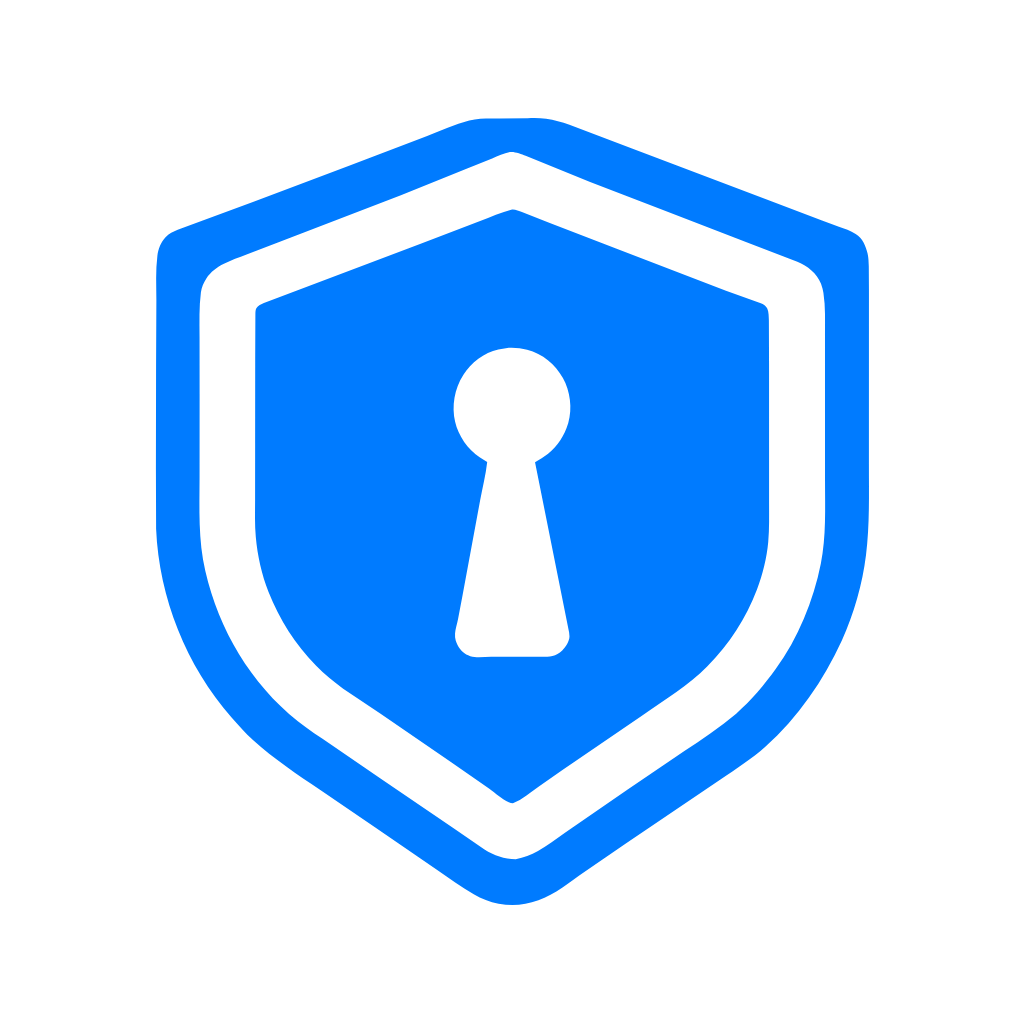
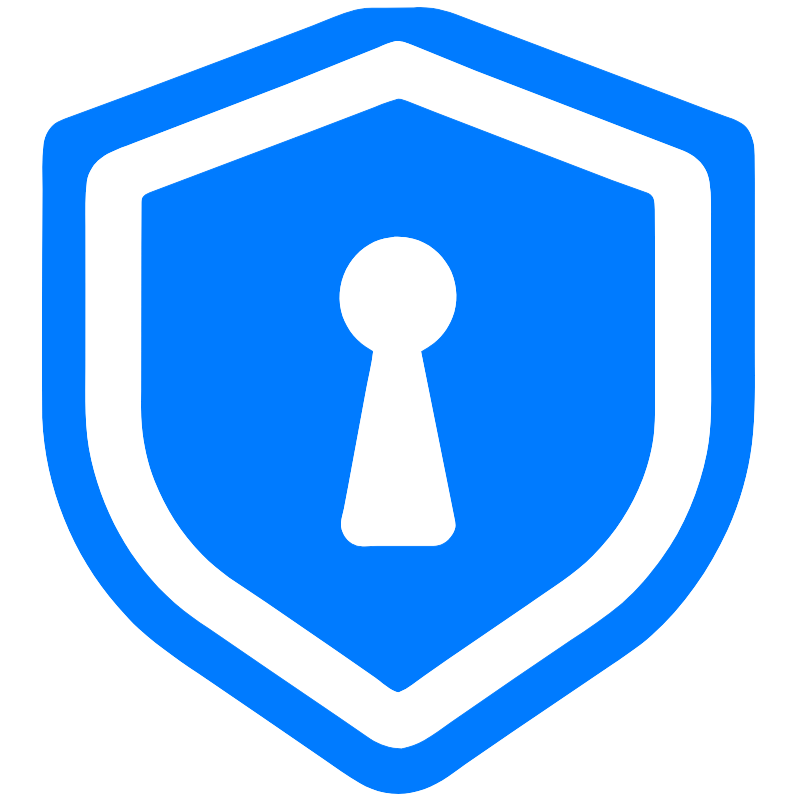
more styling and images

diff --git a/ElectronApp/main.js b/ElectronApp/main.js
@@ -9,10 +9,11 @@ function createWindow() {
     width: 800,
     height: 600,
     show: false, // Don't show the main window until it's ready
-    icon: path.join(__dirname, 'ElectronApp/company_images/secureit.png'),
+    icon: path.join(__dirname, 'company_images/secureit.png'),
     webPreferences: {
       sandbox: true,
       contextIsolation: true,
+      devTools: true,
     },
   });
 
@@ -37,8 +38,8 @@ function createWindow() {
   //   mainWindow.webContents.closeDevTools();
   // });
 
-  // // Remove the application menu
-  // Menu.setApplicationMenu(null);
+  // Remove the application menu
+  Menu.setApplicationMenu(null);
 
   // Show the main window once it's ready
   mainWindow.once('ready-to-show', () => {

diff --git a/Encryption_App/static/styles.css b/Encryption_App/static/styles.css
@@ -197,13 +197,13 @@ body.dark-mode input[type="file"] {
     border: 1px solid #555;
 }
 
-body.dark-mode nav ul {
+/* body.dark-mode nav ul {
     background-color: #444;
-}
+} */
 
-body.dark-mode nav ul li a:hover, body.dark-mode #themeToggle:hover {
+/* body.dark-mode nav ul li a:hover, body.dark-mode #themeToggle:hover {
     background-color: #666;
-}
+} */
 
 body.dark-mode .drag-drop-box {
     border-color: #1e90ff;
@@ -291,8 +291,9 @@ nav svg path{
     transform: translateX(25%) scale(.2);
     z-index: 10;
     position: relative;
+    transition: all 0.3s;
 }
 
 nav.hidden svg path{
-    transform: translateX(0%) scale(.1);
+    transform: translate(0%, 25%) scale(.1);
 }

diff --git a/Encryption_App/templates/base.html b/Encryption_App/templates/base.html
@@ -35,7 +35,7 @@
                 </div>
                 <div class="buttons">
                     <button id="themeToggle"></button>
-                    <button id="hideNav"><</button>
+                    <button id="hideNav"></button>
                 </div>
                 
             </nav>
